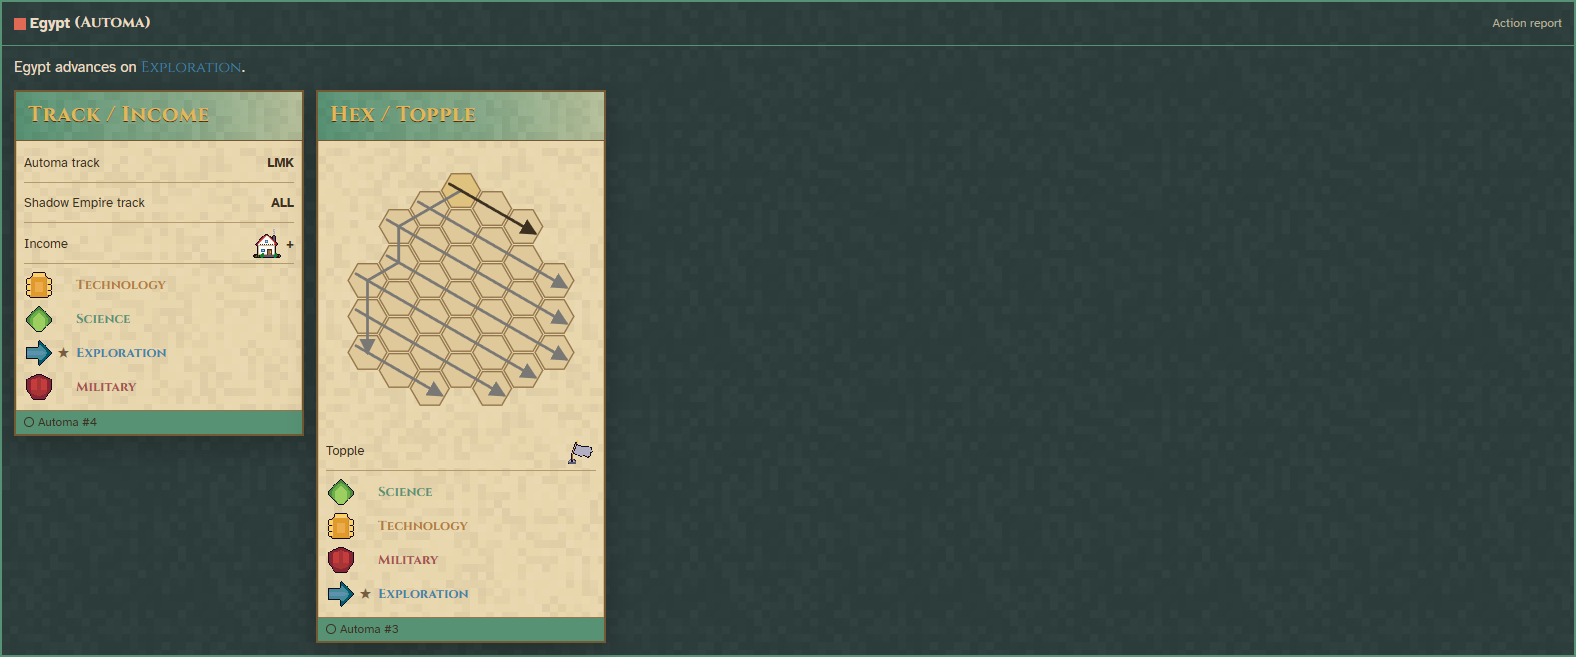
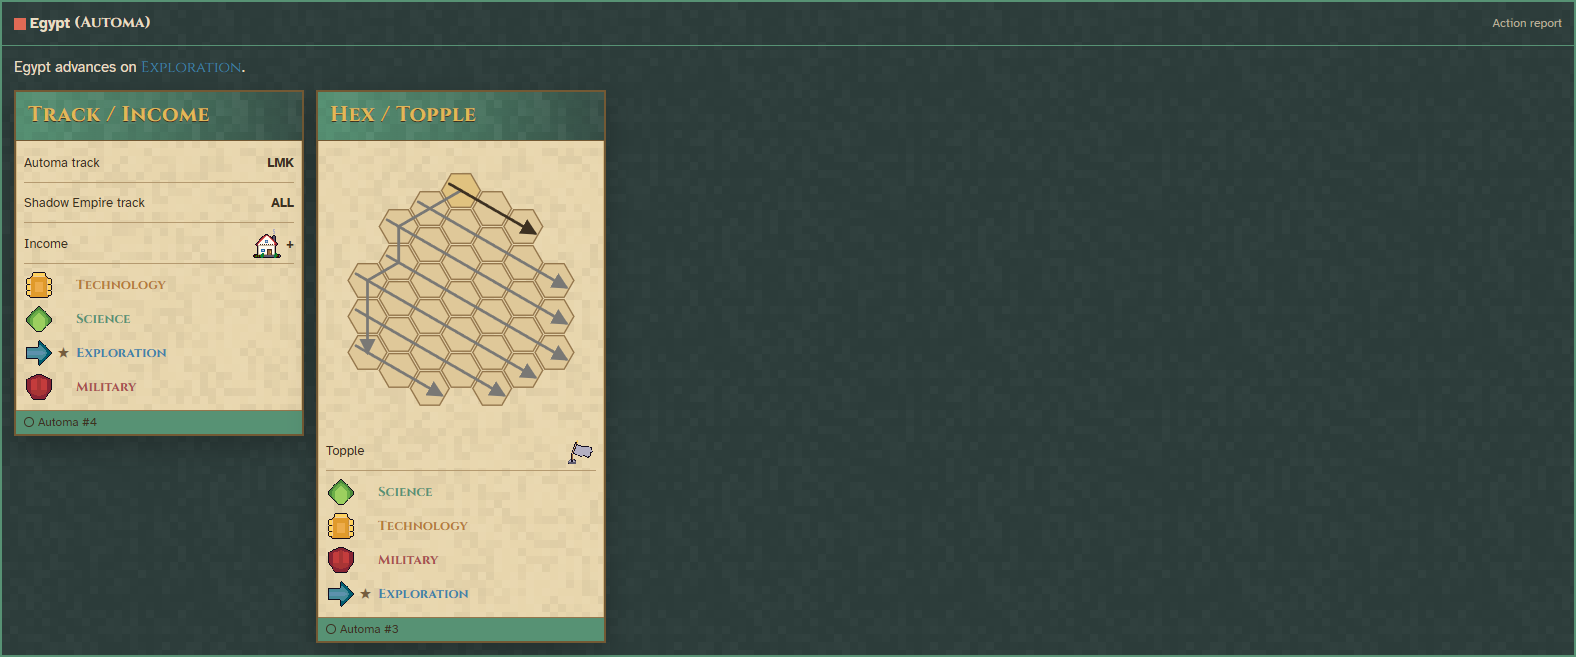
fix: describe bot log events safely

Changed region(s): [[0.0311, 0.1218, 0.4042, 0.2131]]

diff --git a/src/lib/log.js b/src/lib/log.js
@@ -327,7 +327,10 @@ function prophecyNouns(category) {
 /** @type {Record<string, Words>} */
 const WORDS = {
 	botDecisionCards: (e, game, name) =>
-		`${name} revealed decision cards ${e.pair?.trackCard} and ${e.pair?.tiebreakerCard}.`,
+		isCount(e.pair?.trackCard) && isCount(e.pair?.tiebreakerCard)
+			? `${name} revealed decision cards ${e.pair.trackCard} and ${e.pair.tiebreakerCard}.`
+			: `${name} revealed Automa decision cards.`,
+	techRefreshed: (e, game, name) => `${name} refreshed the technology display.`,
 	botTapestryGained: (e, game, name) =>
 		`${name} gained a face-down tapestry card.`,
 	botFavouriteChanged: (e, game, name) =>
@@ -335,7 +338,9 @@ const WORDS = {
 	botTrapDiscarded: (e, game, name) =>
 		`${name} discarded ${tapestryName(e.card)} while defending.`,
 	automaCivilizationChosen: (e, game, name) =>
-		`${name} added the ${e.civilization} Automa civilization.`,
+		typeof e.civilization === 'string'
+			? `${name} added the ${e.civilization} Automa civilization.`
+			: `${name} chose an Automa civilization.`,
 	// Setup.
 	gameCreated(e, game) {
 		const names = Array.isArray(e.seats)
